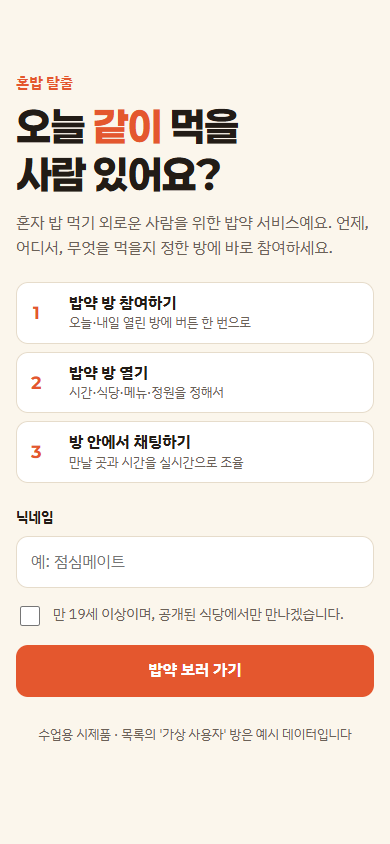
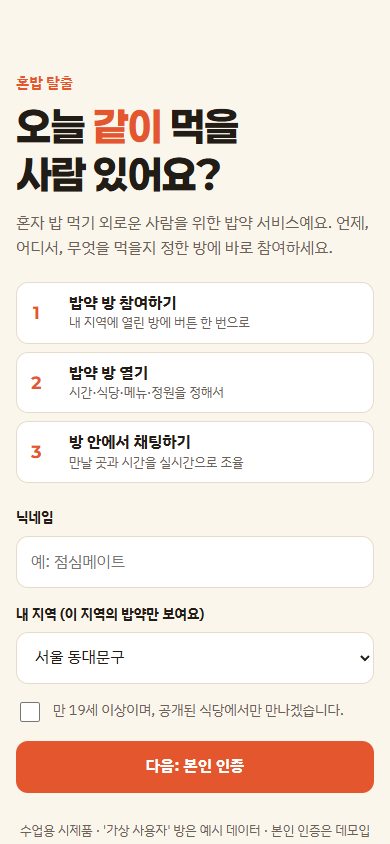
검증과 개선 반영: 기획서·발표 대본·브랜드·기록·홍보물을 본인 인증(데모)과 지역 제한에 맞춰 수정

Changed region(s): [[0.0308, 0.7085, 0.9846, 1.0], [0.1846, 0.3697, 0.6462, 0.4005]]

diff --git a/creatives/카드뉴스/05.html b/creatives/카드뉴스/05.html
@@ -10,7 +10,7 @@
 <body>
 <div class="card">
   <div class="top"><div class="wordmark">혼밥 <b>탈출</b></div><div class="label">수업용 시제품</div></div>
-  <div class="main"><h1 class="title">사람보다 <b>밥</b>이 먼저예요</h1><p class="body">프로필 대신 언제·어디서·무엇을. 2~4명이 공개된 식당에서 만나요.</p></div>
+  <div class="main"><h1 class="title">우리 동네에서 <b>밥만</b> 먹어요</h1><p class="body">내 지역 방만 보여요. 본인 인증은 준비 중이에요.</p></div>
   <div class="bottom"><div class="dots"><i class="on"></i><i class="on"></i><i class="on"></i><i class="on"></i><i class="on"></i><i></i></div><div class="page">05 / 06</div></div>
 </div>
 </body>

diff --git a/발표대본.md b/발표대본.md
@@ -1,6 +1,13 @@
 # 발표 대본 — 혼밥 탈출 (4분)
 
-9조 CODE NEXUS / 야르. 순서는 문제(40초) → 시연(1분 40초) → AI 활용 과정(1분) → 다음 개선점(40초).
+9조 CODE NEXUS / 야르. 심사 기준 다섯 가지(문제 정의, AI 활용, 구현과 시연, 검증과 개선, 발표 전달)에 맞춰 구성했다.
+
+| 순서 | 시간 | 심사 기준 |
+| --- | --- | --- |
+| 1. 문제 | 40초 | 문제 정의 |
+| 2. 시연 | 1분 40초 | 구현과 시연 |
+| 3. AI 활용 과정 | 50초 | AI 활용 |
+| 4. 검증과 개선 | 50초 | 검증과 개선 |
 
 준비물: 화면에 QR(`qr.png`) 띄우기, 시연용 휴대폰 또는 브라우저 창 두 개(A, B).
 서비스 주소: https://namgungyun.github.io/ai-entrepreneur-project/
@@ -13,67 +20,64 @@
 >
 > 오픈채팅이나 커뮤니티에 글을 올려 봐도 시간과 장소가 안 맞거나 답이 늦어서 결국 혼자 먹습니다. 그렇다고 모르는 사람과 1:1로 만나는 건 소개팅 같아서 부담스럽고 걱정도 됩니다.
 >
-> 문제는 "지금, 이 근처에서, 이 메뉴"를 같이 먹을 사람을 **바로** 구할 방법이 없다는 것입니다.
+> 문제는 두 가지입니다. "지금, 이 근처에서, 이 메뉴"를 같이 먹을 사람을 **바로** 구할 방법이 없고, 구하더라도 **누구인지 모르는 사람**이라 나가기가 망설여진다는 것입니다.
 
 ## 2. 시연 (1분 40초)
 
-말하면서 아래 순서대로 누른다.
+말하면서 아래 순서대로 누른다. **심사위원에게는 "지역은 동대문구 그대로 두시면 저희가 연 방이 보입니다"라고 꼭 말한다.**
 
 | 순서 | 화면 | 누르는 것 | 하는 말 |
 | --- | --- | --- | --- |
-| 1 | QR 화면 | (심사위원에게 QR을 보여 준다) | "QR을 찍으시면 지금 바로 같이 써 보실 수 있습니다. 설치도 가입도 없습니다." |
-| 2 | A: 첫 화면 | 닉네임 입력 → 성인 확인 체크 → '밥약 보러 가기' | "닉네임만 넣으면 됩니다. 사람 프로필은 받지 않습니다." |
-| 3 | A: 방 목록 | '오늘', '내일' 탭을 한 번씩 누른다 | "오늘과 내일 열린 밥약 방이 시간순으로 보입니다. 누가가 아니라 언제, 어디서, 무엇을 먹는지가 중심입니다. 지금 보이는 방은 가상 데이터입니다." |
-| 4 | A: 방 열기 | '+ 밥약 방 열기' → 메뉴 '삼겹살', 식당 이름, 시간, 정원 2명 → '방 열기' | "먹고 싶은 메뉴로 방을 엽니다. 정원은 2명에서 4명입니다." |
-| 5 | B: 방 목록 | (아무것도 누르지 않고 화면을 보여 준다) | "다른 휴대폰에서는 새로고침 없이 방금 연 방이 나타납니다." |
-| 6 | B: 방 상세 | 그 방을 누른다 → '참여하기' | "버튼 한 번으로 참여합니다. 인원이 2명 중 2명으로 바뀌고, 목록에서는 마감으로 표시됩니다." |
-| 7 | A, B: 채팅 | B가 "2번 출구에서 봬요" 전송 → A가 "네, 12시 25분에요" 전송 | "채팅으로 만날 곳과 시간을 정합니다. 상대 글이 바로 보입니다." |
-| 8 | A: 방 상세 | '지도 보기' | "식당 위치는 카카오맵으로 엽니다." |
-| 9 | A: 방 상세 | '이 방 신고하기'를 가리킨다 | "공개된 식당에서만 만나도록 안내하고, 불편한 일이 있으면 신고할 수 있습니다." |
+| 1 | QR 화면 | (QR을 보여 준다) | "QR을 찍으시면 지금 바로 같이 써 보실 수 있습니다. 설치도 가입도 없습니다. 지역은 동대문구 그대로 두세요." |
+| 2 | A: 첫 화면 | 닉네임 입력 → 지역 '서울 동대문구' 확인 → 성인 확인 체크 → '다음: 본인 인증' | "닉네임과 내 지역만 고릅니다. 사진이나 자기소개 같은 프로필은 받지 않습니다." |
+| 3 | A: 본인 인증 | 세 단계를 가리킨다 → '데모 인증 완료하기' | "신분증 확인, 얼굴 대조, 지역 확인 세 단계입니다. 오늘은 데모라서 실제 얼굴과 신분증은 받지 않고, 버튼을 누르면 인증한 것으로 표시됩니다." |
+| 4 | A: 방 목록 | '오늘', '내일' 탭을 한 번씩 | "내 지역에 열린 밥약 방만 시간순으로 보입니다. 다른 지역의 방은 아예 보이지 않습니다. 지금 보이는 방은 가상 데이터입니다." |
+| 5 | A: 방 열기 | '+ 밥약 방 열기' → 메뉴 '삼겹살', 식당 이름, 시간, 정원 2명 → '방 열기' | "먹고 싶은 메뉴로 방을 엽니다. 방도 내 지역에만 열 수 있습니다." |
+| 6 | B: 방 목록 | (누르지 않고 화면을 보여 준다) | "다른 휴대폰에서는 새로고침 없이 방금 연 방이 나타납니다." |
+| 7 | B: 방 상세 | 그 방 → '참여하기' | "버튼 한 번으로 참여합니다. 이름 옆 체크 표시는 인증을 마친 사람이라는 뜻입니다. 정원이 차면 마감됩니다." |
+| 8 | A, B: 채팅 | B가 "2번 출구에서 봬요" → A가 "네, 12시 25분에요" | "채팅으로 만날 곳과 시간만 정합니다. 상대 글이 바로 보입니다." |
+| 9 | A: 방 상세 | '지도 보기', '이 방 신고하기'를 가리킨다 | "식당 위치는 카카오맵으로 열고, 불편한 일은 신고할 수 있습니다. 밥만 먹고 헤어지는 자리라는 안내도 방마다 넣었습니다." |
 
-시연이 막히면: `?nick=닉네임`을 주소 뒤에 붙이면 첫 화면을 건너뛴다. 인터넷이 안 되면 `screenshot.png`와 카드뉴스 4번 장으로 설명한다.
+시연이 막히면: 주소 뒤에 `?nick=닉네임&region=동대문구&verified=1`을 붙이면 첫 화면과 인증을 건너뛴다. 인터넷이 안 되면 `screenshot.png`, `screenshot-verify.png`와 카드뉴스 4번 장으로 설명한다.
 
-## 3. AI 활용 과정 (1분)
+## 3. AI 활용 과정 (50초)
 
-> 처음에 AI에게 "**혼밥 탈출 앱을 만들고 싶어. 기획서를 짜줘. 모르는 건 내가 고를 수 있게 질문해 줘. 1시간 안에 작동하는 범위로**"라고 요청했더니, 질문 네 개와 함께 6칸 기획서가 나왔습니다. 저희는 핵심 기능을 '방과 실시간 채팅'으로, 저장은 슈파베이스로, 로그인은 닉네임만으로 골랐습니다.
->
-> 만든 뒤 시험해 보니 **정원이 찼는데도 참여가 되는 문제**가 있었습니다. 원인을 찾아 고치게 했더니, 보안 규칙 때문에 서버가 정원을 읽지 못한 것이었습니다.
->
-> 고친 뒤에는 **2명 방에 세 번째 참여를 직접 시도해서 거절되는 것**으로 확인했습니다.
+> 처음에 AI에게 "**혼밥 탈출 앱을 만들고 싶어. 기획서를 짜줘. 모르는 건 내가 고를 수 있게 질문해 줘. 1시간 안에 작동하는 범위로**"라고 요청했더니, 질문 네 개와 함께 6칸 기획서가 나왔습니다. 저희는 핵심 기능을 '방과 실시간 채팅'으로, 저장은 슈파베이스로 골랐습니다.
 >
 > 개발과 배포는 행사 프롬프트 순서를 따랐습니다. 규칙 파일, 첫 화면, 단계 나누기, 가상 데이터, 그리고 올리기 전 개인정보·키 점검과 사실 확인까지 했고, 단계별 기록은 저장소의 `개발기록.md`에 있습니다. 조원과는 GitHub의 `작업현황.md`로 진행 상황을 주고받았습니다.
 
-## 4. 다음 개선점 (40초)
+## 4. 검증과 개선 (50초)
 
-> 오늘 만들지 않은 것이 세 가지 있습니다.
+> 만든 뒤에는 직접 시험했습니다. 두 번째 사용자를 만들어 참여와 채팅이 실시간으로 보이는지 확인했고, 이 과정에서 **정원이 찼는데도 참여가 되는 문제**를 찾았습니다. 원인은 보안 규칙 때문에 서버가 정원을 읽지 못한 것이었고, 고친 뒤 2명 방에 세 번째 참여가 거절되는 것을 확인했습니다.
 >
-> 첫째, **로그인과 본인 확인**입니다. 지금은 닉네임만 쓰기 때문에 다른 사람의 닉네임을 쓸 수 있습니다. 안전이 중요한 서비스라 가장 먼저 고칠 부분입니다.
+> 그리고 시험하면서 가장 크게 느낀 것은 **"모르는 사람이라 불안하다"는 문제가 그대로 남아 있다**는 점이었습니다. 그래서 두 가지를 더했습니다.
 >
-> 둘째, **근처 방 보여 주기**입니다. 지금은 오늘·내일 방을 모두 보여 줍니다. 위치를 받아 가까운 순으로 보여 주려고 합니다.
+> 첫째, **본인 인증**입니다. 신분증과 얼굴 대조로 누구인지 확인된 사람만 방에 들어오게 하는 흐름을 넣었습니다. 오늘은 데모 화면이고 실제 얼굴 정보는 받지 않습니다. 실제 서비스에서는 전문 본인확인 서비스를 연동할 계획입니다.
 >
-> 셋째, **신고 처리 절차**입니다. 신고는 저장되지만 확인하고 조치하는 운영 화면이 아직 없습니다.
+> 둘째, **본인 지역 제한**입니다. 내가 고른 지역의 방만 보이고 그 지역에만 방을 열 수 있습니다. 이건 오늘 실제로 작동합니다. 멀리서 찾아오는 만남이 아니라 같은 동네에서 밥만 편하게 먹고 헤어지는 자리로 만들기 위해서입니다.
 >
-> 혼자 먹기 싫은 날, 버튼 한 번으로 같이 먹을 사람을 구하는 혼밥 탈출이었습니다. 감사합니다.
+> 확인된 동네 사람과, 밥만 먹고 헤어지는 혼밥 탈출이었습니다. 감사합니다.
 
 ## 예상 질문 5개 (답은 30초 안쪽)
 
-**1. 모르는 사람을 만나는 건데 안전은 어떻게 보장하나요?**
-보장한다고 말씀드리기는 어렵습니다. 오늘 넣은 장치는 세 가지입니다. 1:1이 아니라 여럿이 만나게 하고, 공개된 식당 이름을 적게 하고, 신고 기능을 뒀습니다. 본인 확인과 신고 처리는 아직 없어서 다음에 가장 먼저 만들 부분입니다.
+**1. 얼굴 인증이 실제로 작동하나요?**
+오늘은 작동하지 않는 데모입니다. 화면에도 '데모'라고 표시했고, 실제 얼굴 사진과 신분증은 받지도 저장하지도 않습니다. 얼굴 정보는 민감한 개인정보라서 수업용 시제품에서 직접 모으지 않기로 했습니다. 실제로는 전문 본인확인 서비스를 연동하고, 저희는 '인증됨' 결과만 받아 저장하는 방식으로 하려고 합니다.
 
-**2. 오픈채팅이나 당근 같은 기존 서비스와 무엇이 다른가요?**
-글을 올리고 답을 기다리는 방식이 아니라, 시간·식당·메뉴·정원이 정해진 방에 버튼 한 번으로 들어가는 방식입니다. 조건이 처음부터 정해져 있어서 시간과 장소를 맞추는 대화가 줄어듭니다. 다른 서비스를 자세히 비교 조사하지는 못했습니다.
+**2. 지역 제한은 어떻게 확인하나요? 다른 지역을 고르면 되지 않나요?**
+지금은 본인이 고른 지역을 그대로 믿습니다. 그래서 다른 지역을 고를 수 있습니다. 오늘 작동하는 부분은 '고른 지역의 방만 보이고 그 지역에만 방을 열 수 있다'는 것까지입니다. 다음 단계에서는 본인 인증의 주소나 휴대폰 위치로 지역을 확인하려고 합니다.
 
-**3. 닉네임만 받으면 아무나 남을 사칭할 수 있지 않나요?**
-맞습니다. 지금은 사칭할 수 있고, 닉네임을 알면 남을 방에서 내보낼 수도 있습니다. 1시간 범위에서 로그인을 제외했기 때문이고, 기획서의 '제외할 기능'에 적어 두었습니다. 실제로 운영하려면 로그인이 필요합니다.
+**3. 오픈채팅이나 기존 서비스와 무엇이 다른가요?**
+글을 올리고 답을 기다리는 방식이 아니라, 시간·식당·메뉴·정원이 정해진 방에 버튼 한 번으로 들어갑니다. 여기에 본인 인증과 지역 제한을 더해서, 확인된 같은 동네 사람끼리 밥만 먹는 자리로 만들었습니다. 다른 서비스를 자세히 비교 조사하지는 못했습니다.
 
 **4. AI가 만든 코드를 어떻게 믿고 확인했나요?**
-만든 뒤 직접 실행해서 확인했습니다. 두 번째 사용자를 만들어 참여와 채팅이 실시간으로 보이는지, 정원을 넘는 참여가 거절되는지, 밖에서 방을 지우거나 고칠 수 없는지 시험했습니다. 정원 문제는 이 시험에서 찾았습니다. 사람이 직접 해 볼 시나리오 5개도 `테스트시나리오.md`에 적어 두었습니다.
+만든 뒤 직접 실행해서 확인했습니다. 참여와 채팅이 실시간으로 보이는지, 정원을 넘는 참여가 거절되는지, 밖에서 방을 지우거나 고칠 수 없는지, 없는 지역으로 방을 열 수 없는지 시험했습니다. 정원 문제는 이 시험에서 찾았습니다. 사람이 직접 해 볼 시나리오도 `테스트시나리오.md`에 적어 두었습니다.
 
-**5. 수익은 어떻게 내나요? 실제로 쓸 사람이 있나요?**
-오늘은 수익 모델을 정하지 않았고, 시장조사와 인터뷰도 시간이 부족해 하지 못했습니다. 그래서 이용자 수 같은 숫자는 말씀드리지 않겠습니다. 근거는 조원이 직접 겪은 불편입니다. 다음 단계는 학교 안에서 점심시간에 실제로 방이 열리는지 써 보는 것입니다.
+**5. 실제로 쓸 사람이 있나요? 수익은요?**
+오늘은 수익 모델을 정하지 않았고, 시장조사와 인터뷰도 시간이 부족해 하지 못했습니다. 그래서 이용자 수 같은 숫자는 말씀드리지 않겠습니다. 근거는 조원이 직접 겪은 불편입니다. 다음 단계는 학교가 있는 동대문구에서 점심시간에 실제로 방이 열리는지 써 보는 것입니다.
 
 ## AI 활용 과정 말하기 틀 (짧은 버전)
 
 처음에 AI에게 "**혼밥 탈출 앱 기획서를 1시간 안에 작동하는 범위로 짜 줘**"라고 요청했더니 **6칸 기획서와 선택형 질문 4개**가 나왔습니다.
 시험해 보니 **정원이 찬 방에도 참여가 되는 문제**가 있어서 "**왜 그런지 찾아서 고쳐 줘**"라고 고쳐 달라고 했고,
 **2명 방에 세 번째로 참여해 보는 방법**으로 제대로 작동하는지 확인했습니다.
+그다음 "**본인 인증과 본인 지역 제한을 넣어 안전한 만남으로 만들어 줘**"라고 요청해, 지역 제한은 실제로 작동하게 하고 본인 인증은 데모 화면으로 넣었습니다.

diff --git a/기획서.md b/기획서.md
@@ -11,11 +11,23 @@
 | ① 대상 | 혼자 밥 먹기 외로운 사람. 직장인, 대학생, 1인 가구 누구나 |
 | ② 문제 | "지금, 이 근처에서, 이 메뉴"를 같이 먹을 사람을 바로 구하기 어렵다. 낯선 사람에게 먼저 밥 먹자고 하기가 어색하고 불안하다 |
 | ③ 해결 | 시간·장소·메뉴·정원을 정한 '밥약 방'을 열고, 버튼 한 번으로 참여한다. 사람 프로필이 아니라 "언제·어디서·무엇을"이 중심이고, 3~4명 그룹이 기본이다 |
-| ④ 핵심 기능 3개 | 1) 밥약 방 개설·참여 2) 방 안 실시간 채팅 3) 식당 위치를 카카오맵으로 열기 |
-| ⑤ 제외할 기능 3개 | 1) 이메일·휴대폰 로그인과 실제 성인 인증 2) 앱 안에 내장된 지도와 식당 검색 3) 위치 기반 자동 추천·알림·결제 |
+| ④ 핵심 기능 3개 | 1) 밥약 방 개설·참여 2) 방 안 실시간 채팅 3) 본인 지역 제한과 본인 인증(인증은 데모) |
+| ⑤ 제외할 기능 3개 | 1) 실제 얼굴·신분증 수집과 로그인(인증은 데모 화면까지만) 2) 앱 안에 내장된 지도와 식당 검색 3) 위치 기반 자동 추천·알림·결제 |
 | ⑥ 검증 방법 | 휴대폰 두 대로 QR에 접속한다. 한 대에서 방을 열면 다른 대의 목록에 바로 나타나고, 참여하면 인원이 올라가며, 채팅이 서로 실시간으로 보이면 성공이다 |
 
 **오늘 반드시 만들 기능 1개**: 밥약 방 개설·참여 + 방 안 실시간 채팅
+
+## 검증과 개선 — 우리만의 강점
+
+만든 뒤 시험해 보니 "모르는 사람이라 불안하다"는 문제가 그대로 남아 있었다. 그래서 두 가지를 더했다. 목표는 소개팅 같은 분위기가 아니라, 확인된 같은 동네 사람끼리 밥만 편하게 먹고 헤어지는 기본 틀이다.
+
+| 강점 | 무엇을 하나 | 오늘 상태 | 실제 서비스에서 |
+| --- | --- | --- | --- |
+| 본인 인증 | 신분증 확인 → 얼굴 대조 → 지역 확인의 세 단계를 거친 사람만 방을 보고 참여한다. 참여자 이름 옆에 인증 표시가 붙는다 | **데모.** 화면과 흐름만 있고, 실제 얼굴 사진과 신분증은 받지도 저장하지도 않는다. 버튼을 누르면 인증한 것으로 표시된다 | 전문 본인확인 서비스를 연동하고, 우리는 '인증됨' 결과만 저장한다. 얼굴 정보는 민감한 개인정보라 동의와 보관 기준을 먼저 정한다 |
+| 본인 지역 제한 | 내가 고른 지역의 방만 보이고, 그 지역에만 방을 열 수 있다 | **작동.** 방마다 지역이 저장되고, 목록은 내 지역 방만 불러온다. 없는 지역으로는 방이 만들어지지 않는다 | 본인 인증의 주소나 휴대폰 위치로 지역을 확인한다. 지금은 본인이 고른 지역을 그대로 믿는다 |
+| 밥만 먹고 헤어지기 | 프로필 사진과 자기소개를 받지 않는다. 방마다 "연락처나 다음 약속을 요구하지 않아요" 안내와 신고 버튼을 둔다 | **작동** | 신고를 확인하고 조치하는 운영 절차를 만든다 |
+
+시험해서 찾고 고친 것: 정원이 찼는데도 참여가 되는 문제. 줄 단위 보안 때문에 서버가 정원을 읽지 못했고, 고친 뒤 2명 방에 세 번째 참여가 거절되는 것을 확인했다.
 
 ## 실제 겪은 어려움
 
@@ -30,7 +42,7 @@
 | --- | --- | --- |
 | 형태 | 휴대폰 화면에 맞춘 웹 페이지 한 장 | 설치 없이 QR로 바로 체험 |
 | 저장 | 슈파베이스 (표 3개 + 실시간) | 여러 사람 화면에 같은 방이 보여야 시연이 됨 |
-| 사용자 구분 | 닉네임 입력 + 성인 확인 체크 | 가입 절차 없이 심사위원이 바로 사용 |
+| 사용자 구분 | 닉네임 + 내 지역 + 성인 확인 체크, 이어서 본인 인증(데모) | 가입 절차 없이 심사위원이 바로 사용. 지역 기본값은 행사장이 있는 동대문구 |
 | 지도 | 식당 이름으로 카카오맵 검색 화면 열기 | API 키가 필요 없음 |
 | 배포 | GitHub Pages | 행사 배포 순서와 같음 |
 | 기술 | HTML·CSS·JavaScript, 빌드 도구 없음 | 1시간 안에 작동, 올리면 바로 배포 |
@@ -83,8 +95,8 @@ flowchart LR
 
 | 표 | 칸 | 설명 |
 | --- | --- | --- |
-| `rooms` | id, menu, place, meet_at, capacity, host, created_at | 밥약 방 |
-| `members` | id, room_id, nickname, joined_at | 방 참여자. 같은 방에 같은 닉네임은 한 번만 |
+| `rooms` | id, menu, place, region, meet_at, capacity, host, created_at | 밥약 방. region은 정해진 지역 5곳 중 하나 |
+| `members` | id, room_id, nickname, verified, joined_at | 방 참여자. 같은 방에 같은 닉네임은 한 번만. verified는 본인 인증(데모) 여부 |
 | `messages` | id, room_id, nickname, body, created_at | 방 안 채팅 |
 | `reports` | id, room_id, reporter, reason, created_at | 신고 기록 |
 

diff --git a/개발기록.md b/개발기록.md
@@ -22,7 +22,7 @@
 | 04 | 한 단계씩 만들기 | 4단계를 차례로 확인함 (아래 표) | 단계마다 브라우저에서 직접 실행 |
 | 05 | 가상 데이터 만들기 | 가상 밥약 방 10개를 `data/rooms.json`에 넣고 같은 내용을 슈파베이스에 넣음. 방장 이름은 '가상 사용자 1'~'가상 사용자 10', 식당은 '예시역 가상카츠'처럼 누가 봐도 예시인 값 | 목록에 오늘 6개, 내일 4개가 보임 |
 | 06 | 안 될 때 고쳐 달라고 하기 | 정원이 찼는데도 참여가 되는 문제를 찾아 고침. 원인은 줄 단위 보안 때문에 서버가 정원을 읽지 못한 것 | 2명 방에 세 번째 참여를 시도해 거절되는 것을 확인 |
-| 07 | 시간이 부족할 때 데모로 줄이기 | 줄일 필요가 없었음. 대신 '제외할 기능'(내장 지도, 로그인)은 만들지 않고 카카오맵 링크로 대신함 | — |
+| 07 | 시간이 부족할 때 데모로 줄이기 | 본인 인증(신분증 확인 → 얼굴 대조 → 지역 확인)은 실제로 작동하지 않는 데모 화면으로 줄이고 화면에 '데모'라고 표시함. 실제 얼굴과 신분증은 받지 않음 | 인증 화면에 '데모' 표시가 보이고, 버튼을 누르면 인증 표시가 붙음 |
 | 08 | 세이브 포인트(커밋) 남기기 | 잘 작동할 때마다 커밋하고 GitHub에 올림 | 저장소 커밋 기록 |
 | 09 | 슈파베이스 연결하기 | 슈파베이스 MCP가 이미 연결돼 있어 그대로 씀 | 프로젝트 목록 조회 |
 | 10 | 데이터 저장할 표 만들기 | 프로젝트 `honbap-escape`에 표 4개(rooms, members, messages, reports)를 만들고 RLS를 켬. 읽기와 추가만 허용하고 수정·삭제는 막음. 신고 내용은 밖에서 읽을 수 없음 | 밖에서 방 수정·삭제를 시도해 0건 처리되는 것을 확인. 보안 점검 결과 지적 0건 |
@@ -65,3 +65,18 @@
 | 06 | 저장한 스킬로 다시 만들기 | 스킬이 목록에 올라온 것까지 확인. 대상과 목적을 바꾼 두 번째 세트는 시간이 남으면 만듦 | — |
 | 07 | 발표 대본과 예상 질문 만들기 | 문제(40초) → 시연(1분 40초) → AI 활용 과정(1분) → 다음 개선점(40초). 시연은 무엇을 어떤 순서로 누를지 표로 적음. 예상 질문 5개와 30초 답 | `발표대본.md` |
 | 08 | AI 활용 과정 말하기 틀 | 요청문 → 결과 → 문제점 → 수정 요청 → 확인한 방법의 틀에 정원 마감 오류를 넣어 채움 | `발표대본.md` 마지막 |
+
+## 검증과 개선
+
+시험하면서 찾은 것과 그래서 더한 것이다. 심사 기준의 '검증과 개선'에 해당한다.
+
+| 구분 | 내용 | 확인 방법 |
+| --- | --- | --- |
+| 찾은 문제 | 정원이 찼는데도 참여가 됨 | 2명 방에 세 번째 참여를 시도 |
+| 고친 것 | 정원 검사를 서버가 제대로 읽도록 고침 | 같은 시험에서 거절되는 것을 확인 |
+| 찾은 문제 | "신고가 접수됐어요. 확인 후 조치할게요"는 지키지 못할 약속 | 화면 속 사실 확인 표를 만들다 발견 |
+| 고친 것 | "신고가 접수됐어요."로 줄임 | `사실확인.md` |
+| 남은 불안 | 모르는 사람이라 나가기 망설여짐 | 직접 써 보며 느낌 |
+| 더한 것 1 | 본인 지역 제한. 고른 지역의 방만 보이고 그 지역에만 방을 열 수 있음 (작동) | 동대문구를 고르면 동대문구 방만 보임. 없는 지역으로 방 만들기를 시도해 거절되는 것을 확인 |
+| 더한 것 2 | 본인 인증 단계. 인증한 참여자 이름 옆에 표시 (데모) | 인증 화면에 '데모' 표시, 참여 후 이름 옆 체크 표시 |
+| 더한 것 3 | "밥만 먹고 헤어지는 자리" 안내를 방마다 넣음 (작동) | 방 화면에서 확인 |

diff --git a/사실확인.md b/사실확인.md
@@ -5,7 +5,7 @@
 | # | 화면 | 문장 또는 숫자 | 종류 | 출처 |
 | --- | --- | --- | --- | --- |
 | 1 | 첫 화면 | 혼자 밥 먹기 외로운 사람을 위한 밥약 서비스예요 | 서비스 소개 | `기획서.md` ① 대상 |
-| 2 | 첫 화면 | 오늘·내일 열린 방에 버튼 한 번으로 | 기능 설명 | 서비스 동작. 목록은 오늘과 내일 방만 보여 준다 (`app.js`) |
+| 2 | 첫 화면 | 내 지역에 열린 방에 버튼 한 번으로 | 기능 설명 | 서비스 동작. 목록은 내가 고른 지역의 오늘·내일 방만 불러온다 (`app.js`) |
 | 3 | 첫 화면 | 만날 곳과 시간을 실시간으로 조율 | 기능 설명 | 서비스 동작. 채팅이 새로고침 없이 보이는 것을 개발 중 확인 (`테스트시나리오.md`) |
 | 4 | 첫 화면 | 만 19세 이상이며, 공개된 식당에서만 만나겠습니다 | 이용 조건 | 우리가 정한 규칙. 실제 나이 확인은 하지 않으며 본인이 체크한다. 성인 기준 나이의 법적 근거는 확인 필요 |
 | 5 | 첫 화면 | 수업용 시제품 | 표시 | 행사 프롬프트의 요구 사항 |
@@ -14,6 +14,10 @@
 | 8 | 방 열기 | 정원 2명·3명·4명 | 숫자 | `기획서.md` ③ 해결의 "3~4명 그룹이 기본". 2명은 시험과 소규모를 위해 허용 |
 | 9 | 방 안 | 안전하게 만나요. 공개된 식당에서만 만나고… | 안내 | 우리가 정한 안전 규칙. 효과를 뒷받침하는 자료는 확인 필요 |
 | 10 | 방 안 | 신고가 접수됐어요 | 동작 안내 | 신고는 실제로 저장된다. 확인하고 조치하는 운영 절차는 아직 없어서 "확인 후 조치할게요"라는 문구는 뺐다 |
+| 11 | 본인 인증 | 인증한 사람만 밥약에 나와요 | 기능 설명 | **데모.** 실제로는 버튼만 누르면 인증으로 표시된다. 화면에 '데모'와 "실제 얼굴 사진과 신분증은 받지도 저장하지도 않아요"를 함께 적었다 |
+| 12 | 본인 인증 | 신분증으로 본인 확인, 얼굴 대조, 지역 확인 | 계획한 절차 | 우리가 설계한 흐름. 오늘은 작동하지 않는다. 얼굴 정보 수집에 필요한 법적 요건은 확인 필요 |
+| 13 | 목록 | 서울 동대문구에서 열린 밥약만 보여요. 참여자는 본인 인증을 거쳐요 | 기능 설명 | 지역 제한은 실제 동작. "본인 인증을 거쳐요"는 데모 인증을 뜻한다 |
+| 14 | 방 안 | 밥만 먹고 헤어지는 자리예요. 연락처나 다음 약속을 요구하지 않아요 | 안내 | 우리가 정한 이용 규칙. 지키게 하는 장치는 신고 버튼뿐이다 |
 
 ## 화면에 넣지 않은 것
 

diff --git a/테스트시나리오.md b/테스트시나리오.md
@@ -4,9 +4,9 @@
 
 | # | 구분 | 하는 일 | 기대하는 결과 | 결과 |
 | --- | --- | --- | --- | --- |
-| 1 | 정상 | A가 닉네임을 넣고 성인 확인에 체크한 뒤 '밥약 보러 가기'를 누른다 | 오늘 열린 밥약 방 목록이 시간순으로 보인다 | |
+| 1 | 정상 | A가 닉네임을 넣고 지역은 '서울 동대문구'로 둔 채 성인 확인에 체크한다. '다음: 본인 인증' → '데모 인증 완료하기'를 누른다 | 동대문구에 열린 오늘 밥약 방만 시간순으로 보인다. 다른 지역 방은 보이지 않는다 | |
 | 2 | 정상 | A가 '+ 밥약 방 열기'에서 메뉴·식당·시간·정원 2명을 넣고 방을 연다. B는 목록을 보고 있는다 | B의 목록에 새로고침 없이 새 방이 나타나고 '1자리 남음'으로 보인다 | |
-| 3 | 정상 | B가 그 방에 참여하고 "2번 출구에서 봬요"라고 보낸다. A가 답한다 | 양쪽 화면에 인원이 2/2명으로 바뀌고, 서로의 글이 새로고침 없이 보인다. 목록에서는 '마감'으로 바뀐다 | |
+| 3 | 정상 | B가 A와 같은 지역(동대문구)으로 들어와 그 방에 참여하고 "2번 출구에서 봬요"라고 보낸다. A가 답한다 | 양쪽 화면에 인원이 2/2명으로 바뀌고, 서로의 글이 새로고침 없이 보인다. 목록에서는 '마감'으로 바뀐다 | |
 | 4 | 이상한 입력 (빈칸) | 닉네임을 비우고 '밥약 보러 가기'를 누른다. 방 열기에서 메뉴를 비우고 '방 열기'를 누른다 | 넘어가지 않고 무엇을 입력해야 하는지 알려 준다. 빈 방이 만들어지지 않는다 | |
 | 5 | 이상한 입력 (아주 긴 글자) | 메뉴 칸에 40자 이상을 붙여 넣는다. 채팅에 400자 이상과 `<b>굵게</b>`를 보낸다 | 메뉴는 30자, 채팅은 300자까지만 들어간다. 태그는 글자 그대로 보이고 화면이 깨지지 않는다 | |
 
@@ -16,6 +16,9 @@
 | --- | --- |
 | 2명 방에 세 번째 사용자가 참여 | 서버가 거절함 |
 | 밖에서 방을 고치거나 지우기 | 0건 처리됨 |
+| 정해진 5곳이 아닌 지역으로 방 만들기 | 서버가 거절함 |
+| 지역을 동대문구로 고르고 목록 보기 | 동대문구 방만 보임 (오늘 3개, 내일 2개) |
+| 참여한 뒤 이름 옆 인증 표시 | 체크 표시가 붙음 |
 | 채팅에 `<b>태그</b>` 보내기 | 글자 그대로 보임 |
 
 위 세 가지는 한 브라우저 안에서 두 번째 사용자를 흉내 내어 확인했다. 실제 휴대폰 두 대로 한 결과는 위 표에 채운다.

diff --git a/작업현황.md b/작업현황.md
@@ -35,6 +35,8 @@
 
 - **NamGungYun → 김남일 (2026-11-12 14:45)**: 행사 프롬프트 순서에 맞춰 개발·배포 단계를 정리했습니다. `개발기록.md`를 보시면 단계별로 무엇을 했는지 나옵니다. 글꼴은 행사 지정(Paperlogy, IBM Plex Sans KR)으로 바꿨고, 주소는 https://namgungyun.github.io/ai-entrepreneur-project/ , QR은 `qr.png`입니다.
 
+- **NamGungYun → 김남일 (2026-11-12 14:50)**: 심사 기준(문제 정의, AI 활용, 구현과 시연, 검증과 개선, 발표 전달)에 맞춰 발표 대본을 다시 짰습니다. 강점은 본인 인증(데모)과 본인 지역 제한(작동)입니다. 시연 때 심사위원에게 "지역은 동대문구 그대로"라고 꼭 말해야 우리가 연 방이 보입니다. `발표대본.md`를 봐 주세요.
+
 ## 오늘 일정
 
 | 단계 | 마감 | 상태 |
@@ -43,7 +45,8 @@
 | 개발 | 5강 안 (14:50) | 핵심 기능 작동 (방 열기·참여·실시간 채팅·정원 마감·신고·지도 링크) |
 | 배포 (GitHub Pages) | 5강 안 (14:50) | 완료: https://namgungyun.github.io/ai-entrepreneur-project/ (행사 사이트 결과물 제출은 아직) |
 | 행사 프롬프트 단계 맞추기 | — | 개발 01~10, 배포 01~08 완료. 기록은 `개발기록.md` |
-| 홍보물·발표 준비 | 6강 (15:10) | 시작 전 |
+| 홍보물·발표 준비 | 6강 (15:10) | 완료: `brand.md`, `creatives/`, `발표대본.md`, sns-creative 스킬 |
+| 검증과 개선 | — | 본인 지역 제한(작동), 본인 인증(데모) 추가 |
 | 조별 시연과 심사 | 15:10–16:40 | — |
 
 ## 아직 정하지 않은 것

diff --git a/brand.md b/brand.md
@@ -13,7 +13,7 @@
 
 1. **언제·어디서·무엇을.** 사람 프로필이 아니라 시간, 식당, 메뉴가 중심이다.
 2. **버튼 한 번으로 참여.** 앱을 열면 오늘·내일 열린 밥약 방이 바로 보인다.
-3. **여럿이라 부담이 적다.** 1:1이 아니라 2~4명이 공개된 식당에서 만난다.
+3. **확인된 동네 사람과, 밥만 먹고 헤어진다.** 본인 인증을 거친 같은 지역 사람끼리 2~4명이 공개된 식당에서 만난다. 본인 인증은 지금 데모이므로 홍보물에는 "본인 인증(준비 중)"처럼 쓴다.
 
 ## 말투
 
@@ -52,3 +52,4 @@ CSS에서는 `font-family: "Paperlogy"`와 `font-family: "IBM Plex Sans KR"`로 
 - 다른 서비스 깎아내리기: 특정 앱이나 오픈채팅을 나쁘게 말하는 문장
 - 출처 없는 숫자: 이용자 수, 만족도, "혼밥족 몇 퍼센트" 같은 통계
 - 만남·연애를 암시하는 표현: "소개팅", "이상형"
+- 아직 없는 기능을 있는 것처럼 쓰기: 본인 인증은 데모이므로 "얼굴 인증으로 안전 보장"처럼 쓰지 않는다

diff --git a/README.md b/README.md
@@ -2,7 +2,7 @@
 
 - 혼자 밥 먹기 외로운 사람이 "언제·어디서·무엇을" 먹을지 정한 밥약 방에 버튼 한 번으로 참여하는 서비스입니다.
 - 방을 열면 다른 사람이 참여하고, 방 안 채팅으로 만날 곳과 시간을 실시간으로 조율합니다.
-- 1:1이 아니라 2~4명 그룹으로 만나고, 공개된 식당에서만 만나도록 안내합니다.
+- 내가 고른 지역의 방만 보이고, 본인 인증(오늘은 데모)을 거친 2~4명이 공개된 식당에서 밥만 먹고 헤어집니다.
 
 **수업용 시제품입니다.** 삼육보건대학교 AI 앙트레프레너 LAUNCH!(2026-11-12)에서 9조 CODE NEXUS / 야르가 만들었습니다. 목록의 '가상 사용자' 방은 예시 데이터이며 실제 사람이나 식당이 아닙니다.
 
